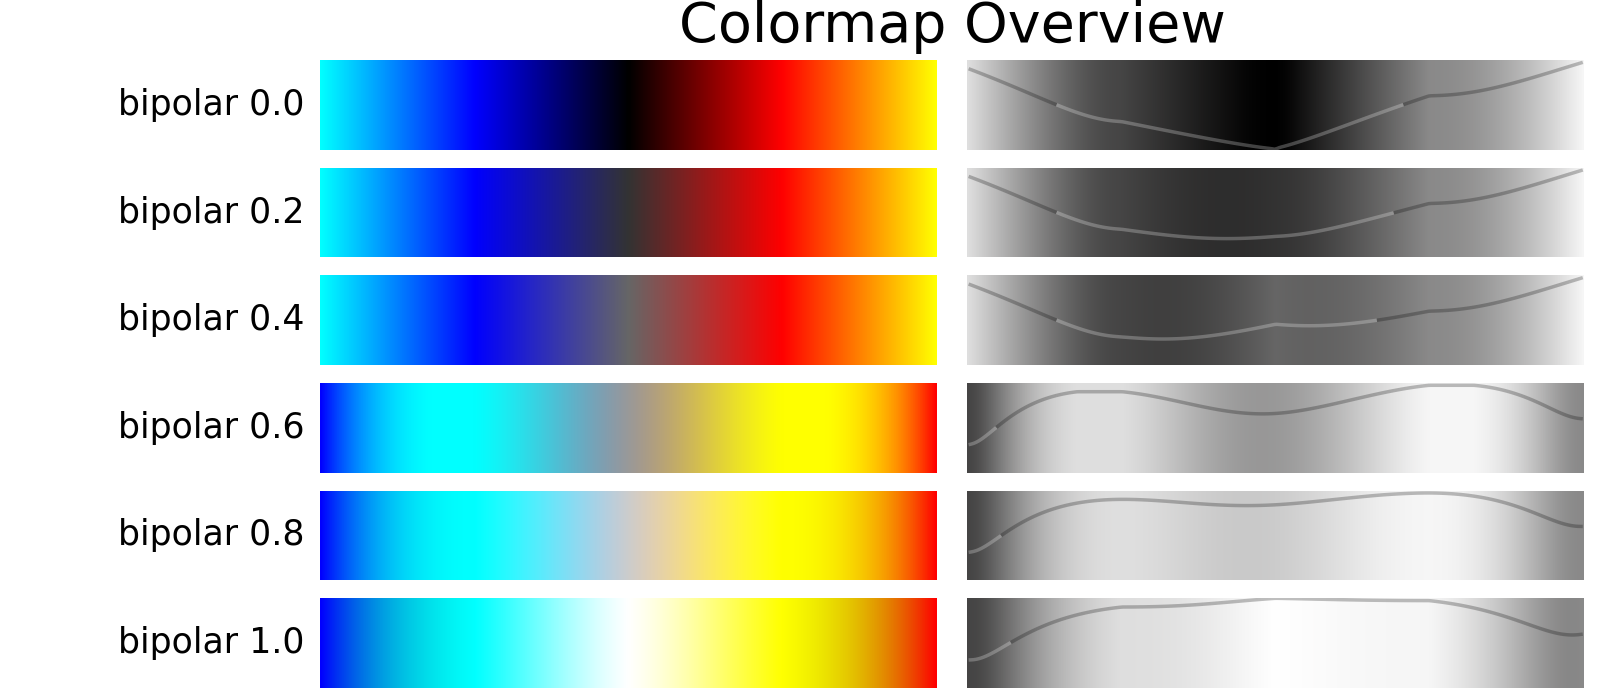
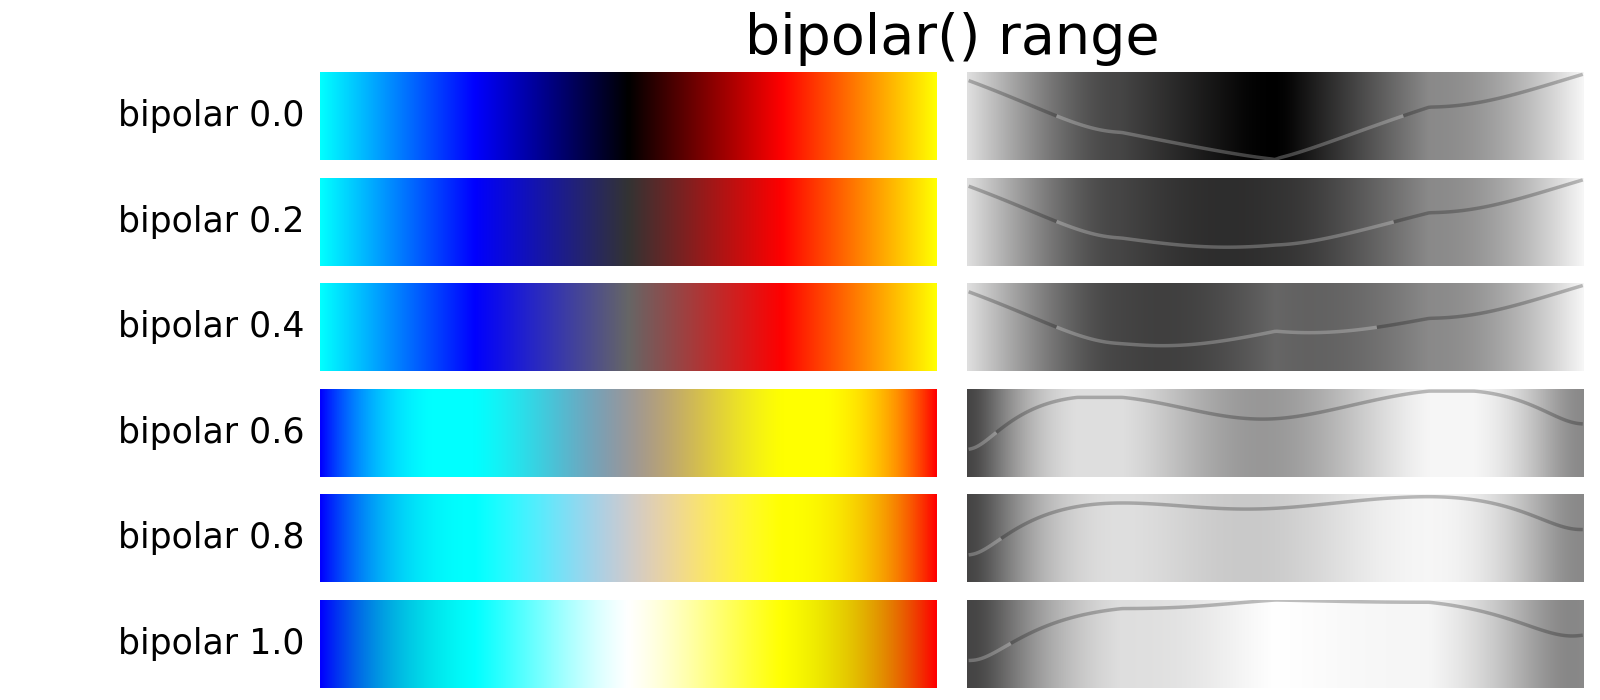
Update CMasher
Use changes from
https://github.com/1313e/CMasher/commit/ed8077366cdda84eaf484ce0f194149d3a9ab4e9

diff --git a/examples/comparison.py b/examples/comparison.py
@@ -12,7 +12,7 @@ for n in (0.0, 0.2, 0.4, 0.6, 0.8, 1.0):
     cmaps.append(cmap)
 
 create_cmap_overview(cmaps, use_types=False, savefig='bipolar range.png',
-                     plot_profile=True, sort=None)
+                     plot_profile=True, sort=None, title="bipolar() range")
 
 # Full range of hotcold plots
 cmaps = []
@@ -22,7 +22,7 @@ for n in (0.0, 0.2, 0.4, 0.6, 0.8, 1.0):
     cmaps.append(cmap)
 
 create_cmap_overview(cmaps, use_types=False, savefig='hotcold range.png',
-                     plot_profile=True, sort=None)
+                     plot_profile=True, sort=None, title="hotcold() range")
 
 # Bipolar vs other dark-centered hot-cold maps
 cmaps = [('bipolar 0.0', bipolar(neutral=0)),
@@ -40,7 +40,7 @@ for n, (name, cmap) in enumerate(cmaps):
     cmaps[n] = cmap
 
 create_cmap_overview(cmaps, use_types=False, savefig='dark comparison.png',
-                     plot_profile=True, sort=None)
+                     plot_profile=True, sort=None, title="Dark neutral maps")
 
 # Bipolar vs other light-centered hot-cold maps
 cmaps = [('bipolar 1.0', bipolar(neutral=1.0)),
@@ -51,10 +51,10 @@ cmaps = [('bipolar 1.0', bipolar(neutral=1.0)),
          ('cc.coolwarm', cc.m_coolwarm),
          ('cm.coolwarm', cm.coolwarm),
          ('cm.bwr', cm.bwr),
-         ('cm.RdBu_r ', cm.RdBu_r),
+         ('cm.RdBu_r', cm.RdBu_r),
          ('cc.bwr', cc.m_CET_D1A),
          ('cm.seismic', cm.seismic),
-         ('cmr.fusion_r ', cmr.fusion_r),
+         ('cmr.fusion_r', cmr.fusion_r),
          ]
 
 for n, (name, cmap) in enumerate(cmaps):
@@ -62,4 +62,4 @@ for n, (name, cmap) in enumerate(cmaps):
     cmaps[n] = cmap
 
 create_cmap_overview(cmaps, use_types=False, savefig='light comparison.png',
-                     plot_profile=True, sort=None)
+                     plot_profile=True, sort=None, title="Light neutral maps")

diff --git a/README.md b/README.md
@@ -27,11 +27,7 @@ Very similar colormap is [FireIce by Joseph Kirk](http://www.mathworks.com/matla
 
 Comparisons with other conceptually-similar maps from [matplotlib](https://matplotlib.org/tutorials/colors/colormaps.html#diverging), [colorcet](https://colorcet.holoviz.org/#Samples), and [CMasher](https://cmasher.readthedocs.io/user/diverging.html):
 
-With dark neutral:
-
 ![bipolar colormap vs iceburn, redshift, bkr, bjr](https://raw.githubusercontent.com/endolith/bipolar-colormap/master/examples/dark%20comparison.png)
-
-With light neutral:
 
 ![bipolar colormap vs CET_D10, cwr, CET_D9, coolwarm, bwr, RdBu, seismic, fusion](https://raw.githubusercontent.com/endolith/bipolar-colormap/master/examples/light%20comparison.png)
 
